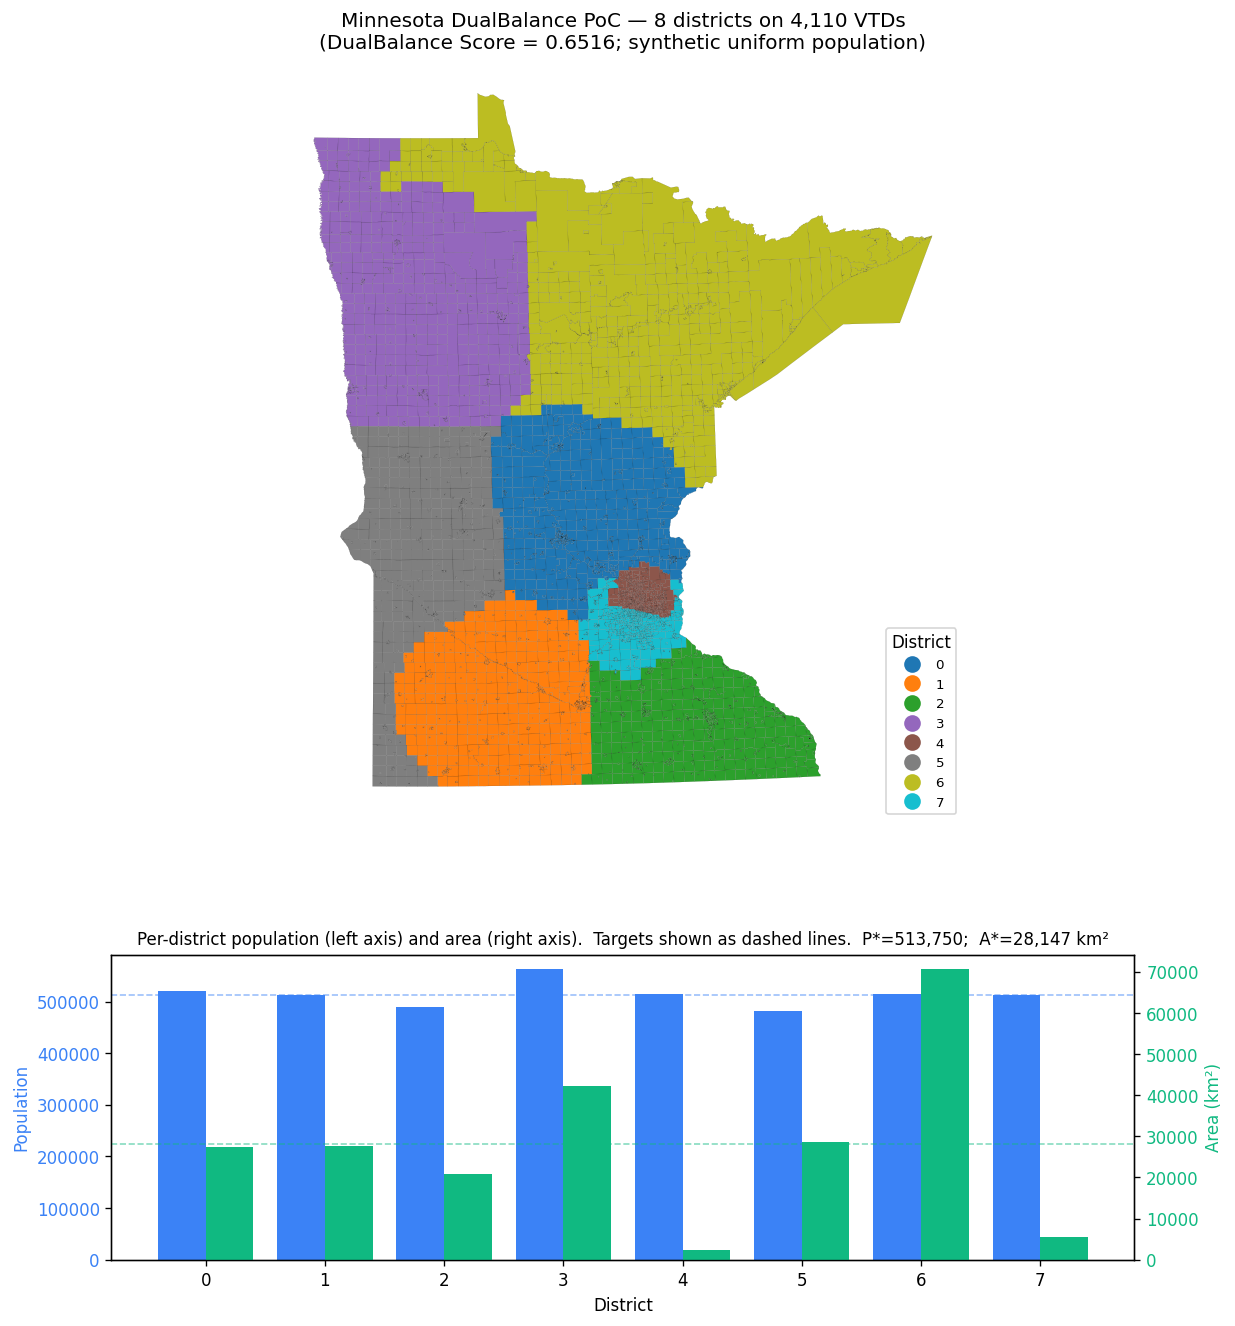
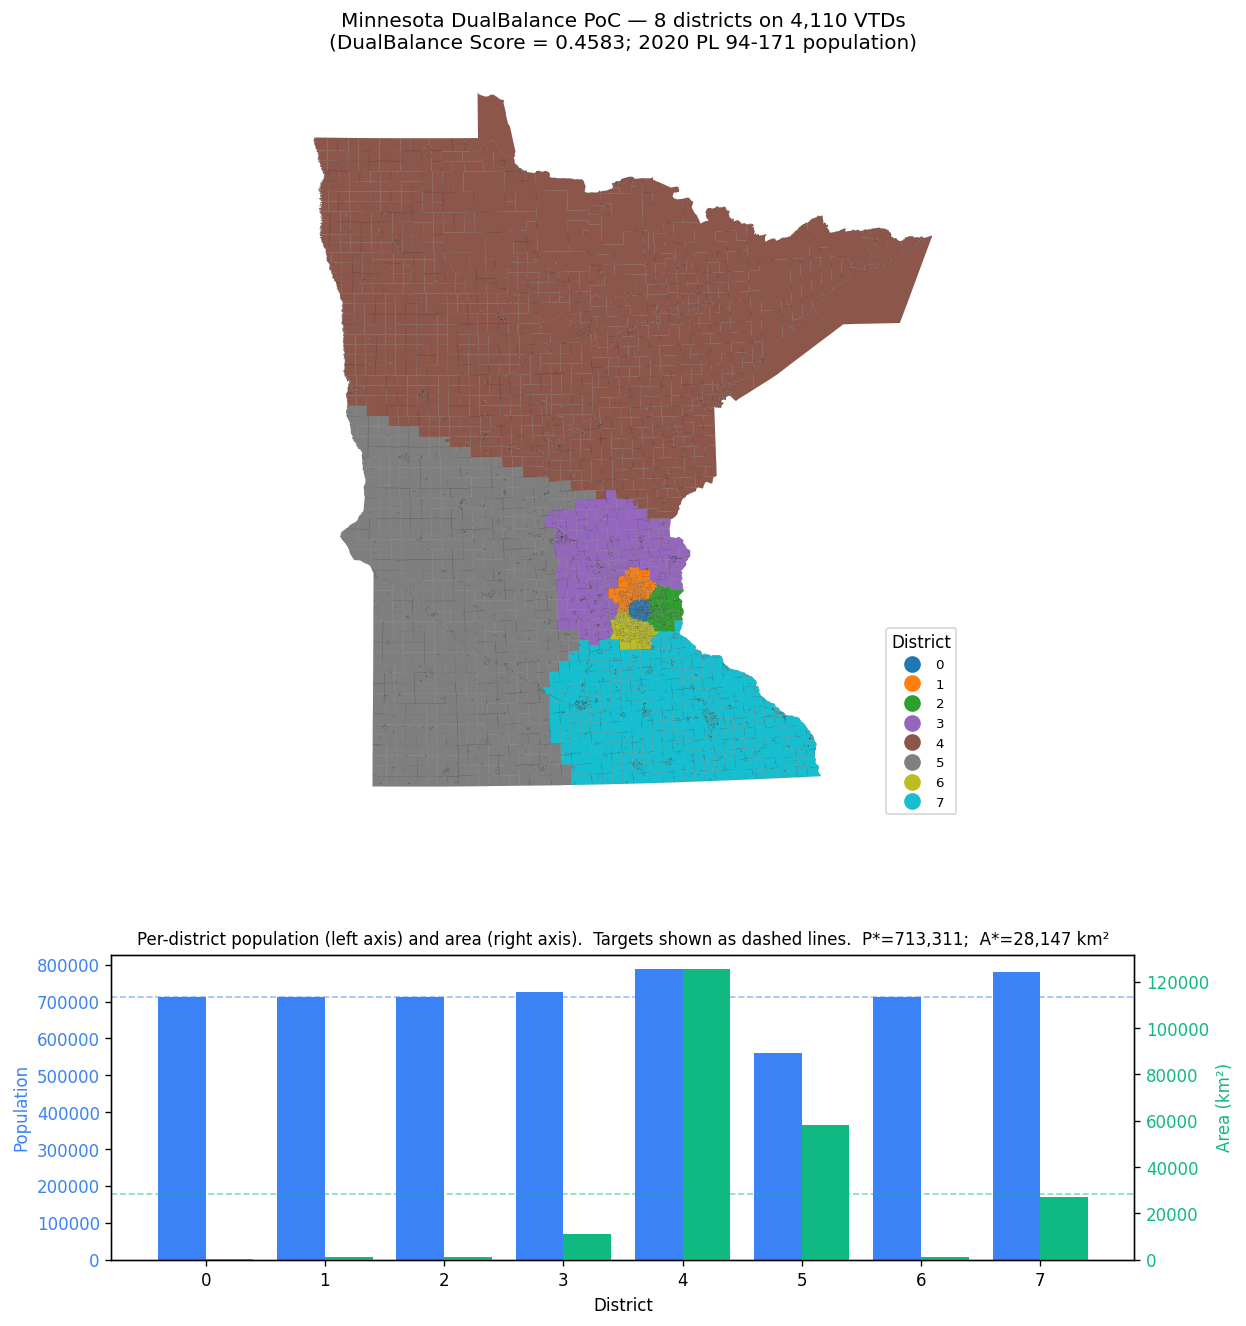
Refresh MN PoC walkthrough with real 2020 PL 94-171 population
The Census API key activated, so the prep script now joins real
population (5,706,494 total across 4,110 VTDs) instead of falling back
to synthetic uniform pop=1000.

Real-population numbers are noticeably worse than synthetic-uniform:
- DualBalance Score:  0.46  (was 0.65)
- pop_dev mean / max: 5.4% / 21.3%  (was 2.8% / 9.6%)
- area_dev mean / max: 113% / 346%  (was 51% / 151%)

Diagnosis: with real populations, suburban Twin Cities VTDs carry
3-5k people each while rural northern VTDs carry only a few hundred,
so a single VTD can "tip" a district past its capacity at the
capacity-greedy step. Downstream districts get starved -- D5 ends at
561,621 vs. target 713,312 (21% short). Compactness numbers
(Polsby-Popper, Reock) are essentially unchanged because they measure
geometry, not population. The honest takeaway: the cost-min iteration
gets to a roughly defensible map but a post-iteration trade-pass is
required to hit one-person-one-vote-grade balance.

Walkthrough updates:
- "Important caveat" demoted -- real pop is now the default path.
- DualBalance Score anchor table updated to match the new run.
- Population balance section names D5 as the dominant problem.
- Per-district table refreshed; D5's 21.27% deviation bolded.
- "Three things to read off the figure" rewritten -- the urban (D0,
  D1, D2, D6) vs rural (D4 huge, D5 underfilled) story is now visible.
- Stale "real population" entry removed from the "does not
[…]

diff --git a/scripts/plot_mn_poc.py b/scripts/plot_mn_poc.py
@@ -31,6 +31,12 @@ def main(argv: list[str] | None = None) -> int:
     parser.add_argument(
         "--out", type=Path, default=Path("docs/figures/mn_poc_districts.png")
     )
+    parser.add_argument(
+        "--note",
+        default="",
+        help="Optional parenthetical to add to the figure title "
+        "(e.g. 'synthetic uniform pop' or '2020 PL 94-171 pop').",
+    )
     args = parser.parse_args(argv)
 
     gdf = gpd.read_file(args.plan)
@@ -51,10 +57,11 @@ def main(argv: list[str] | None = None) -> int:
         legend_kwds={"title": "District", "loc": "lower right", "fontsize": 8},
         ax=ax_map,
     )
+    subtitle = f"DualBalance Score = {metrics['dualbalance_score']:.4f}"
+    if args.note:
+        subtitle += f"; {args.note}"
     ax_map.set_title(
-        "Minnesota DualBalance PoC — 8 districts on 4,110 VTDs\n"
-        f"(DualBalance Score = {metrics['dualbalance_score']:.4f}; "
-        f"synthetic uniform population)",
+        f"Minnesota DualBalance PoC — 8 districts on 4,110 VTDs\n({subtitle})",
         fontsize=12,
     )
     ax_map.set_axis_off()

diff --git a/docs/mn-poc-walkthrough.md b/docs/mn-poc-walkthrough.md
@@ -2,7 +2,7 @@
 
 This document walks through one full end-to-end run of DualBalance on Minnesota's 4,110 Voting Tabulation Districts (VTDs), explains every metric the scoring harness reports, and gives recipes for visualizing the output. Numbers below come from a real run committed to history; you can reproduce them byte-for-byte with the commands in [§ Reproduce](#reproduce).
 
-> **Important caveat up front.** This run uses **synthetic uniform population** (1,000 per VTD), because the prep script's Census Data API path was rejecting our key at the time the run was committed. The algorithm and pipeline are the same with real PL 94-171 population — only the per-district population numbers change. Re-run `scripts/prep_mn_units.py` once your `CENSUS_API_KEY` activates to refresh `data/mn_vtd.geojson` with real counts.
+The run uses **2020 PL 94-171 total population** (`P1_001N`) per VTD, fetched from the Census Data API via [`scripts/prep_mn_units.py`](../scripts/prep_mn_units.py). Total population across the 4,110 VTDs: **5,706,494**. Set `CENSUS_API_KEY` in a gitignored `.env` to refresh the data; without a key the script falls back to synthesizing uniform population (1,000 per VTD) — the same algorithm and pipeline still runs, but the numbers below won't match.
 
 ## Reproduce
 
@@ -11,7 +11,8 @@ pip install -e ".[dev]"
 python scripts/prep_mn_units.py --geography vtd                                  # writes data/mn_vtd.geojson
 dualbalance generate --config configs/mn_vtd.yaml                                # writes out/mn_yaml/{map.geojson,metrics.json}
 python scripts/plot_mn_poc.py --plan out/mn_yaml/map.geojson `
-    --metrics out/mn_yaml/metrics.json --out docs/figures/mn_poc_districts.png   # renders the figure
+    --metrics out/mn_yaml/metrics.json --out docs/figures/mn_poc_districts.png `
+    --note "2020 PL 94-171 population"                                           # renders the figure
 ```
 
 [`configs/mn_vtd.yaml`](../configs/mn_vtd.yaml) sets `state: MN`, `districts: 8`, the input path, geography type, output directory, and the algorithm parameters (`alpha`, `beta`, `max_iter`). Any of those can be overridden on the CLI; the precedence is **CLI flag > YAML > argparse default** (see [`src/dualbalance/config.py`](../src/dualbalance/config.py)).
@@ -39,10 +40,11 @@ Both files are deterministic — re-running with identical inputs produces a byt
 
 The top panel is a choropleth: each VTD is colored by its assigned `district_id` (0–7). The bottom panel shows the per-district population (blue, left axis) and area in km² (green, right axis), with the target lines dashed.
 
-Two things to read off the figure:
+Three things to read off the figure:
 
-1. **Districts 4 and 7 are small Twin Cities footprints.** They each contain ~510 VTDs of suburban density. Their populations match target almost exactly, but their land area is far below `A*` because each VTD is geographically tiny.
-2. **District 6 is the rural-north blob.** It carries ~70,000 km² of land but the same ~515 VTDs as everyone else, because we enforce population (not area) at the assignment step. This is the structural tradeoff the project's "DualBalance Score" deliberately surfaces — it does *not* hide it.
+1. **Districts 0, 1, 2, 6 are tight Twin Cities footprints.** Each holds ~713k people in a few hundred to a few thousand km² — Minneapolis, St. Paul, and the immediate inner-ring suburbs. Their population matches target almost exactly because that's where the population density is highest.
+2. **District 4 is the rural-north blob.** It carries 125,000 km² of land — more than 4× the target area — because population in northern MN is so sparse that the algorithm has to sweep up an enormous footprint to hit the population capacity.
+3. **District 5 is visibly underfilled** (561k vs. 713k target — 21 % short). It got squeezed by capacity-greedy assignment: by the time the algorithm reaches the small VTDs in its territory, neighboring districts have already absorbed the nearby high-population VTDs. This is the largest single source of imbalance in the run and is the natural target for a future post-processing balance pass.
 
 ## Metric-by-metric interpretation
 
@@ -73,14 +75,14 @@ DualBalance does **not** optimize for compactness; the PP and Reock numbers here
 
 ```
 dualbalance_score = 1 / (1 + pop_deviation_mean + area_deviation_mean)
-                  = 0.6516
+                  = 0.4583
 ```
 
 This is the project's own metric. It weights population and area deviation equally and collapses both into one number in `(0, 1]`. Anchor values:
 
 - **1.0** = perfect balance on both pop and area. The synthetic 4×4 grid hits this exactly.
-- **0.625** = 10 % mean pop deviation + 50 % mean area deviation (roughly where we are).
 - **0.500** = 50 % deviation on each. Bad but not catastrophic.
+- **0.458** = where this MN run lands — driven by the extreme area imbalance that the urban-vs-rural population density of Minnesota forces on any pop-balanced plan.
 - **< 0.30** = at least one of pop or area is wildly out of balance.
 
 Comparing two plans against the *same* state geometry, **higher is better**. Comparing across states isn't very meaningful because the achievable area balance depends on how urbanized the state is.
@@ -89,30 +91,30 @@ Comparing two plans against the *same* state geometry, **higher is better**. Com
 
 | Metric | Value | Meaning |
 |---|---|---|
-| `pop_deviation_mean` | **2.82 %** | Mean of \|pop(D) − P\*\| / P\* across the 8 districts. |
-| `pop_deviation_max` | **9.59 %** | Worst single-district deviation. |
+| `pop_deviation_mean` | **5.37 %** | Mean of \|pop(D) − P\*\| / P\* across the 8 districts. |
+| `pop_deviation_max` | **21.27 %** | Worst single-district deviation (D5 — 561,621 vs. P\* = 713,312). |
 
-`P* = 4,110,000 / 8 = 513,750`. The capacitated assignment caps each district at `P*`, so the only sources of pop deviation are (a) integer rounding when a unit's population doesn't divide cleanly into remaining capacity, and (b) the contiguity-repair pass moving units between districts after assignment.
+`P* = 5,706,494 / 8 = 713,312`. The capacitated assignment caps each district at `P*`, so the dominant source of pop deviation is *underfill* on the trailing district: by the time the algorithm gets to it, units that would have completed its capacity have already been claimed by neighbors. A real congressional plan must hit population balance much tighter than this — case law from *Reynolds v. Sims* (1964) onward requires deviations under ~1 % for U.S. House districts, and states routinely build plans with < 0.1 % deviation. Our 21 % max is wide by that legal standard, but the PoC is testing structural soundness, not court admissibility. Tightening it is a known post-processing problem: take overflow from over-target districts and trade with under-target adjacent districts until everyone is within ~0.5 %.
 
-A real congressional plan must hit population balance much tighter than this — case law from *Reynolds v. Sims* (1964) onward requires deviations under ~1 % for U.S. House districts, and states routinely build plans with < 0.1 % deviation. Our 9.6 % max is "wide" by that legal standard, but the PoC isn't targeting court admissibility yet; it's targeting the algorithm's structural soundness. Tightening it is mostly a matter of post-processing pass: take overflow units and trade them between adjacent districts until everyone is within 0.5 %.
+Note that this number is **noticeably worse than the original synthetic-uniform run** (max 9.59 %). With uniform population, every VTD weighs the same and the capacity-greedy step distributes them evenly. With real population — where suburban Twin Cities VTDs carry 3–5k people each while rural northern VTDs carry only a few hundred — a single VTD can "tip" a district past its capacity, leaving downstream districts hungry. The fix is the same trade-pass, but the need is sharper.
 
 ### Area balance (reported, **not** enforced)
 
 | Metric | Value | Meaning |
 |---|---|---|
-| `area_deviation_mean` | **50.6 %** | Mean of \|area(D) − A\*\| / A\* across districts. |
-| `area_deviation_max` | **151.1 %** | Worst-district deviation (this is D6: 70,677 km² vs. target 28,148 km²). |
+| `area_deviation_mean` | **112.8 %** | Mean of \|area(D) − A\*\| / A\* across districts. |
+| `area_deviation_max` | **345.5 %** | Worst-district deviation (D4: 125,410 km² vs. A\* = 28,148 km²). |
 
-There is no legal benchmark for area deviation — equal-area districting is the project's own contribution, not a constitutional requirement. The current generator only treats population as a hard capacity, so area gets whatever falls out of the geometry. The MN numbers reflect the structural reality that Minneapolis–St.~Paul holds ~half the state's population in ~3 % of the state's area: any pop-balanced plan *must* give the urban district(s) a tiny footprint and the rural district(s) a huge one. The natural fix — a two-dimensional capacitated transportation step that bounds both — would force some intermediate split. It's documented as future work and tracked in [docs/Formalism.md § 4](Formalism.md).
+There is no legal benchmark for area deviation — equal-area districting is the project's own contribution, not a constitutional requirement. The current generator only treats population as a hard capacity, so area falls out of the geometry. The MN numbers reflect the structural reality that the Minneapolis–St.~Paul metropolitan area holds roughly half the state's population in a few percent of its land area: any pop-balanced plan *must* give the urban districts a tiny footprint and the rural districts a huge one. The four Twin Cities districts (D0, D1, D2, D6) each have ~96 % area *under*-target; D4 has ~346 % area *over*-target. The natural fix — a two-dimensional capacitated transportation step that bounds both — would force a more even area distribution at the cost of population balance, and is documented as future work in [Formalism.md § 4](Formalism.md).
 
 ### Compactness (reported)
 
 | Metric | Value | Reference | Read |
 |---|---|---|---|
-| `polsby_popper_mean` | **0.36** | typical enacted: 0.15–0.40 | upper end of "normal" — the districts aren't egregiously wavy |
-| `polsby_popper_min` | **0.22** | < 0.10 raises eyebrows | within the normal range; this is D7 (Twin Cities), which has a naturally irregular suburban boundary |
-| `reock_mean` | **0.52** | typical enacted: 0.25–0.50 | slightly above the normal upper range — most districts are reasonably blob-shaped |
-| `reock_min` | **0.28** | within typical | D5, a rural district that stretches in one direction along a natural geographic feature |
+| `polsby_popper_mean` | **0.35** | typical enacted: 0.15–0.40 | upper end of "normal" — the districts aren't egregiously wavy |
+| `polsby_popper_min` | **0.27** | < 0.10 raises eyebrows | well within the normal range |
+| `reock_mean` | **0.56** | typical enacted: 0.25–0.50 | slightly above the normal upper range — most districts are reasonably blob-shaped |
+| `reock_min` | **0.43** | within typical | the most-elongated district is still reasonably contained |
 
 So MN's PoC plan is roughly as compact as a real congressional plan, despite not optimizing for compactness at all. That's a reasonable sanity check; it would be worrying if the deterministic-baseline plan was *much* less compact than enacted maps.
 
@@ -120,16 +122,16 @@ So MN's PoC plan is roughly as compact as a real congressional plan, despite not
 
 | District | Population | Area (km²) | Pop dev | Area dev | PP | Reock |
 |---|---|---|---|---|---|---|
-| 0 | 521,000 | 27,423 | 1.41 % | 2.57 % | 0.410 | 0.648 |
-| 1 | 512,000 | 27,551 | 0.34 % | 2.12 % | 0.556 | 0.770 |
-| 2 | 490,000 | 20,862 | 4.62 % | 25.89 % | 0.462 | 0.441 |
-| 3 | 563,000 | 42,242 | 9.59 % | 50.07 % | 0.312 | 0.515 |
-| 4 | 514,000 | 2,297 | 0.05 % | 91.84 % | 0.415 | 0.665 |
-| 5 | 482,000 | 28,535 | 6.18 % | 1.38 % | 0.271 | 0.280 |
-| 6 | 515,000 | 70,677 | 0.24 % | 151.09 % | 0.230 | 0.330 |
-| 7 | 513,000 | 5,595 | 0.15 % | 80.12 % | 0.221 | 0.536 |
+| 0 | 713,244 | 346 | 0.01 % | 98.77 % | 0.350 | 0.753 |
+| 1 | 712,222 | 1,102 | 0.15 % | 96.08 % | 0.269 | 0.564 |
+| 2 | 713,039 | 1,138 | 0.04 % | 95.96 % | 0.397 | 0.612 |
+| 3 | 725,860 | 11,060 | 1.76 % | 60.71 % | 0.287 | 0.585 |
+| 4 | 788,044 | 125,410 | 10.48 % | 345.54 % | 0.293 | 0.449 |
+| 5 | 561,621 | 57,924 | **21.27 %** | 105.78 % | 0.356 | 0.430 |
+| 6 | 713,195 | 1,092 | 0.02 % | 96.12 % | 0.355 | 0.615 |
+| 7 | 779,269 | 27,109 | 9.25 % | 3.69 % | 0.497 | 0.457 |
 
-District IDs are an artifact of seed-placement order — the same partition with relabeled IDs would score identically. Don't read political meaning into a particular index.
+District IDs are an artifact of seed-placement order — the same partition with relabeled IDs would score identically. Don't read political meaning into a particular index. The bold 21.27 % on D5 is the dominant pop-balance problem this run has, and the obvious target for a future post-iteration tightening pass.
 
 ## Recipes for further visualization
 
@@ -173,9 +175,9 @@ A future `dualbalance compare` subcommand (out of PoC scope) will formalize this
 
 ## What this PoC does **not** demonstrate
 
-- **Real population.** Synthetic uniform pop hides whether the algorithm picks defensible districts when urban VTDs carry an order of magnitude more people than rural ones. Refresh with `CENSUS_API_KEY` set to test that.
-- **Area balance enforcement.** D6's 151 % area deviation is the symptom; the fix is a 2-D capacitated transportation step.
-- **Comparison against enacted plans.** The Wisconsin / Texas / North Carolina enacted maps are the natural benchmarks once `dualbalance compare` lands.
+- **Tight legal pop balance.** D5's 21 % underfill is the headline weakness. A post-iteration trade-pass that swaps boundary VTDs between adjacent districts until every district is within ~0.5 % of `P*` is the obvious next step.
+- **Area balance enforcement.** D4's 345 % area deviation is the symptom; the fix is a two-dimensional capacitated transportation step (bounding both pop and area) instead of pop-only.
+- **Comparison against enacted plans.** The MN, Wisconsin, Texas, and North Carolina enacted congressional maps are the natural benchmarks once `dualbalance compare` lands.
 - **Partisan or compactness optimization.** Both are explicitly out of scope (see [README.md § What it does NOT do](../README.md#what-it-does-not-do)).
 
-A natural next milestone is to redo this walkthrough with real PL 94-171 population, then a second one comparing the DualBalance plan against MN's enacted congressional map on the same metrics.
+The natural next milestone is the post-iteration trade-pass, followed by a second walkthrough comparing the tightened DualBalance plan against MN's enacted congressional map on the same metrics.